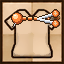
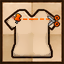
Íconos de rango: se conservan la chincheta y la tijera del usuario, solo más vivas; línea de corte naranja sin sombra (sin aplicar)
Claude-Session: https://claude.ai/code/session_014VeQUjMv7G1rcVBXsxCHBx

Changed region(s): [[0.125, 0.125, 0.9375, 0.4375], [0.5, 0.1562, 0.5312, 0.1875], [0.375, 0.1875, 0.4062, 0.2188]]

diff --git a/tools/ajustar_iconos_rango.py b/tools/ajustar_iconos_rango.py
@@ -1,7 +1,7 @@
 """Ajuste de los íconos de rango dibujados por el usuario (2026-10-04, "vamos con la de la remera... A"):
 parte de los 7 PNG de 64x64 de assets_nuevos_prueba/ (recortados de su imagen) y
-  1) pasa el naranja de la línea, la chincheta y la tijera al cobre de la Modeladora,
-  2) engruesa la línea de corte (3 px, a trazos, con brillo y sombra),
+  1) avive el naranja de la chincheta y los mangos de la tijera (conservando su dibujo y su sombreado),
+  2) engruesa la línea de corte (2 px, a trazos, naranja vivo, sin sombra ni borde),
   3) borra las puntadas grises de adentro de la remera (un filtro de mediana solo dentro del contorno).
 Uso: python tools/ajustar_iconos_rango.py            # deja los resultados en assets_nuevos_prueba/ajustados/
      python tools/ajustar_iconos_rango.py --aplicar  # los copia a textures/item (respalda los actuales)
@@ -10,6 +10,8 @@ import os
 import shutil
 import sys
 from collections import deque
+
+import colorsys
 
 import numpy as np
 from PIL import Image, ImageFilter
@@ -24,15 +26,8 @@ NOMBRES = ["cero", "minimo", "corto", "medio", "mediolargo", "largo", "maximo"]
 COBRE_CLARO = np.array([242, 170, 120])
 COBRE_MEDIO = np.array([184, 102, 56])
 COBRE_OSCURO = np.array([96, 44, 22])
-# Destaques (2026-10-04, "mas brillante e iconica a la chincheta y a la tijera. Y a la linea de corte"): cobre vivo.
-VIVO = np.array([255, 138, 58])
-VIVO_LUZ = np.array([255, 214, 160])
-VIVO_SOMBRA = np.array([176, 72, 28])
-TINTA = np.array([59, 36, 16])
-ACERO = np.array([206, 215, 226])
-ACERO_LUZ = np.array([248, 250, 253])
-ACERO_SOMBRA = np.array([128, 138, 154])
-XP, X_PIVOTE, X_PUNTA = 17, 45, 37      # centro de la chincheta, eje y puntas de la tijera
+LINEA = np.array([255, 120, 30])        # naranja vivo de la línea de corte
+LINEA_LUZ = np.array([255, 150, 60])
 
 
 def mascaras(a):
@@ -95,105 +90,51 @@ def ajustar(img):
     x_tij = int(der.min()) if len(der) else int(np.where(naranja[y0:y1 + 1].any(axis=0))[0].max()) - 8
     xa, xb = x_pin + 2, x_tij - 2           # tramo libre de la línea
 
-    # Piezas viejas = lo naranja/gris dentro de las ventanas de la chincheta y la tijera.
-    yc = (y0 + y1) // 2
-    ventana = np.zeros_like(naranja)
-    ventana[max(0, yc - 10):yc + 11, 10:27] = True
-    ventana[max(0, yc - 10):yc + 11, 38:64] = True
-    piezas = (naranja | gris) & ventana
+    # Piezas = todo lo naranja/gris que NO es el tramo libre de la línea.
     tramo = np.zeros_like(naranja)
-    tramo[max(0, y0 - 1):y1 + 2, :] = True
-    vieja_linea = naranja & ~ventana & tramo
+    tramo[max(0, y0 - 1):y1 + 2, xa:xb + 1] = True
+    piezas = (naranja | gris) & ~tramo
     barrera = dilatar(piezas, 1)
-    dentro = interior(oscuro, barrera | vieja_linea, (32, 40))
+    dentro = interior(oscuro, barrera | (tramo & naranja), (32, 40))
 
-    # puntadas de adentro: mediana (5x5, dos pasadas) solo dentro del contorno y lejos de las piezas y la línea
+    # 3) puntadas de adentro: mediana (5x5, dos pasadas) solo dentro del contorno y lejos de línea y piezas
     suave = Image.fromarray(a).filter(ImageFilter.MedianFilter(5)).filter(ImageFilter.MedianFilter(5))
     suave = np.array(suave)
-    zona = dentro & ~barrera & ~tramo
+    zona = dentro & ~barrera
+    zona[max(0, y0 - 1):y1 + 2, xa:xb + 1] = False
     b = a.copy()
     b[zona] = suave[zona]
 
-    # sacar lo viejo (piezas y línea): promedio de los vecinos que no son piezas
-    sacar = dilatar(piezas, 1) | vieja_linea   # +1 px: se lleva también el contorno de tinta de lo viejo
-    valido = ~sacar
-    for _ in range(4):
-        nuevo_b = b.copy()
-        for y, x in zip(*np.where(sacar)):
-            ys, xs = slice(max(0, y - 2), y + 3), slice(max(0, x - 2), x + 3)
-            v = valido[ys, xs]
-            if v.any():
-                nuevo_b[y, x] = b[ys, xs][v].mean(axis=0)
-                valido[y, x] = True
-        b = nuevo_b
-        sacar = sacar & ~valido
+    # borrar la línea vieja: mezcla vertical entre la fila de arriba y la de abajo de la banda
+    ya, yb = max(0, y0 - 3), min(63, y1 + 3)
+    for x in range(xa, xb + 1):
+        for y in range(y0 - 1, y1 + 2):
+            if naranja[y, x]:
+                t = (y - ya) / max(1, (yb - ya))
+                b[y, x] = ((1 - t) * b[ya, x] + t * b[yb, x]).astype(np.uint8)
 
-    # Los destaques se dibujan en una capa aparte y se les pone contorno de tinta (más icónicos).
-    capa = np.zeros((64, 64, 4), dtype=np.uint8)
+    # 1) avivar el naranja y el marrón cálido de las piezas (chincheta y mangos de la tijera): más saturado y
+    # más luminoso, sin tocar su dibujo. Los tonos oscuros (los mangos) suben más que los claros.
+    r_, g_, b2 = (a[..., k].astype(int) for k in range(3))
+    calido = (r_ - b2 > 100) & (r_ > 120) & (g_ < 175) & ((r_ + g_ + b2) / 3 > 80)
+    avivar = (naranja | calido) & dilatar(piezas, 2)
+    cerca = np.zeros_like(avivar)                         # solo alrededor de la chincheta y de la tijera
+    cerca[max(0, y0 - 10):y1 + 11, :xa + 1] = True
+    cerca[max(0, y0 - 10):y1 + 11, xb:] = True
+    avivar &= cerca
+    for (y, x) in zip(*np.where(avivar)):
+        rr, gg, bb = (int(v) / 255 for v in a[y, x])
+        h, sat, val = colorsys.rgb_to_hsv(rr, gg, bb)
+        sat = min(1.0, sat * 1.12 + 0.03)
+        val = min(1.0, val * 1.35 + 0.10) if val < 0.75 else min(1.0, val * 1.10 + 0.05)
+        b[y, x] = [round(c * 255) for c in colorsys.hsv_to_rgb(h, sat, val)]
 
-    def px(x, y, c):
-        if 0 <= x < 64 and 0 <= y < 64:
-            capa[y, x, :3] = c
-            capa[y, x, 3] = 255
-
-    def disco(cx, cy, r, c):
-        for y in range(cy - r, cy + r + 1):
-            for x in range(cx - r, cx + r + 1):
-                if (x - cx) ** 2 + (y - cy) ** 2 <= r * r + r * 0.6:
-                    px(x, y, c)
-
-    # línea de corte: 3 px, trazos de 4 con 2 de hueco, entre la chincheta y la tijera
-    xa, xb = XP + 5, X_PUNTA - 1
+    # nueva línea de corte: 2 px de naranja vivo, trazos de 4 con 2 de hueco (sin sombra ni borde)
+    yc = (y0 + y1) // 2
     for x in range(xa, xb + 1):
         if ((x - xa) % 6) < 4:
-            px(x, yc - 1, VIVO_LUZ)
-            px(x, yc, VIVO)
-            px(x, yc + 1, VIVO_SOMBRA)
-
-    # chincheta: cabeza redonda con luz y sombra, y la aguja que asoma abajo
-    for k in range(5):
-        px(XP - 1 - k // 2 - 1, yc + 4 + k, ACERO if k < 4 else ACERO_SOMBRA)
-    disco(XP, yc, 5, VIVO_SOMBRA)
-    disco(XP - 1, yc - 1, 4, VIVO)
-    disco(XP - 2, yc - 2, 2, VIVO_LUZ)
-    px(XP - 3, yc - 3, ACERO_LUZ)
-    px(XP - 2, yc - 3, ACERO_LUZ)
-
-    # tijera: dos hojas gruesas cruzadas en el eje, entreabiertas hacia la línea, y dos anillos con agujero
-    def hoja(x0, y0_, x1, y1_, claro, medio, sombra):
-        n = max(abs(x1 - x0), abs(y1 - y0_))
-        for k in range(n + 1):
-            t = k / n
-            x = round(x0 + (x1 - x0) * t)
-            y = round(y0_ + (y1 - y0_) * t)
-            alto = 3 if t < 0.55 else 2        # se afina hacia la punta
-            px(x, y - 1, claro)
-            px(x, y, medio)
-            if alto == 3:
-                px(x, y + 1, sombra)
-    # la hoja que sale del anillo de arriba termina abajo, y al revés (así se cruzan en el eje)
-    hoja(X_PIVOTE + 7, yc - 4, X_PUNTA, yc + 3, ACERO_LUZ, ACERO, ACERO_SOMBRA)
-    hoja(X_PIVOTE + 7, yc + 4, X_PUNTA, yc - 3, ACERO_LUZ, ACERO, ACERO_SOMBRA)
-    for sg in (-1, 1):
-        cy = yc + sg * 5
-        disco(X_PIVOTE + 10, cy, 3, VIVO_SOMBRA)
-        disco(X_PIVOTE + 10, cy, 2, VIVO)
-        px(X_PIVOTE + 9, cy - 2, VIVO_LUZ)
-        px(X_PIVOTE + 10, cy - 2, VIVO_LUZ)
-        for ddx in (-1, 0, 1):               # el agujero del anillo, del color del papel
-            px(X_PIVOTE + 10 + ddx, cy, np.array([232, 202, 160]))
-        px(X_PIVOTE + 10, cy - 1, np.array([232, 202, 160]))
-        px(X_PIVOTE + 10, cy + 1, np.array([232, 202, 160]))
-    disco(X_PIVOTE + 3, yc, 1, VIVO_SOMBRA)        # el tornillo del eje
-    px(X_PIVOTE + 3, yc, VIVO_LUZ)
-
-    # contorno de tinta de 1 px alrededor de todo lo dibujado
-    mascara = capa[..., 3] > 0
-    borde = dilatar(mascara, 1) & ~mascara
-    for y, x in zip(*np.where(borde)):
-        b[y, x] = TINTA
-    for y, x in zip(*np.where(mascara)):
-        b[y, x] = capa[y, x, :3]
+            b[yc, x] = LINEA_LUZ
+            b[yc + 1, x] = LINEA
     return Image.fromarray(b)
 
 
